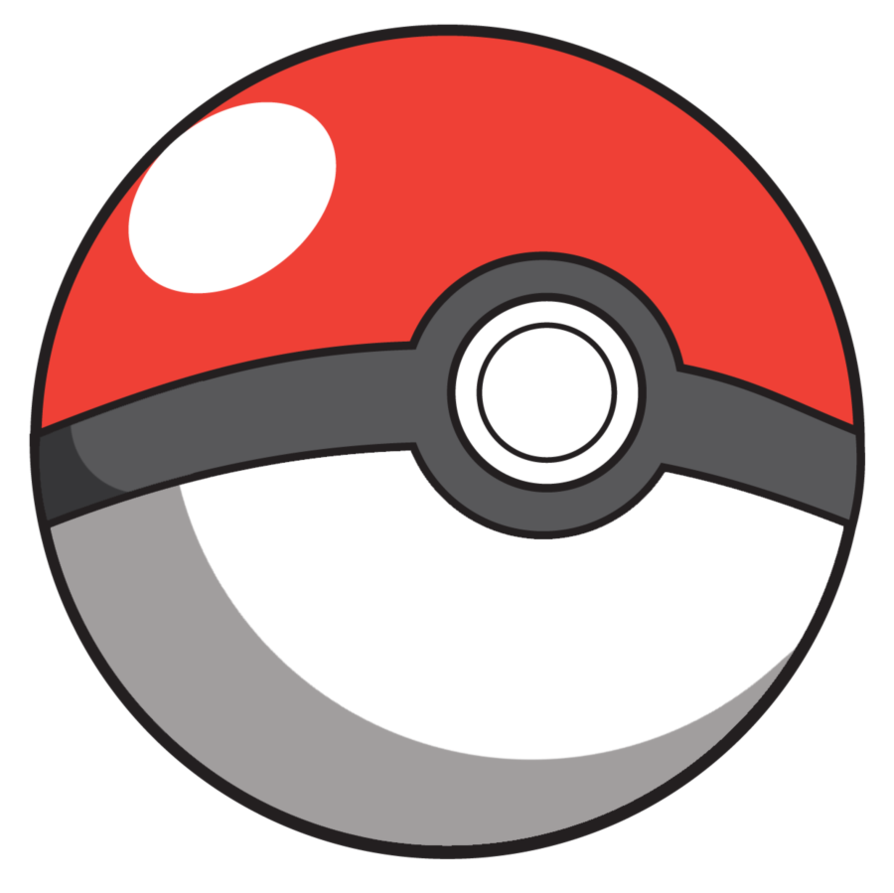
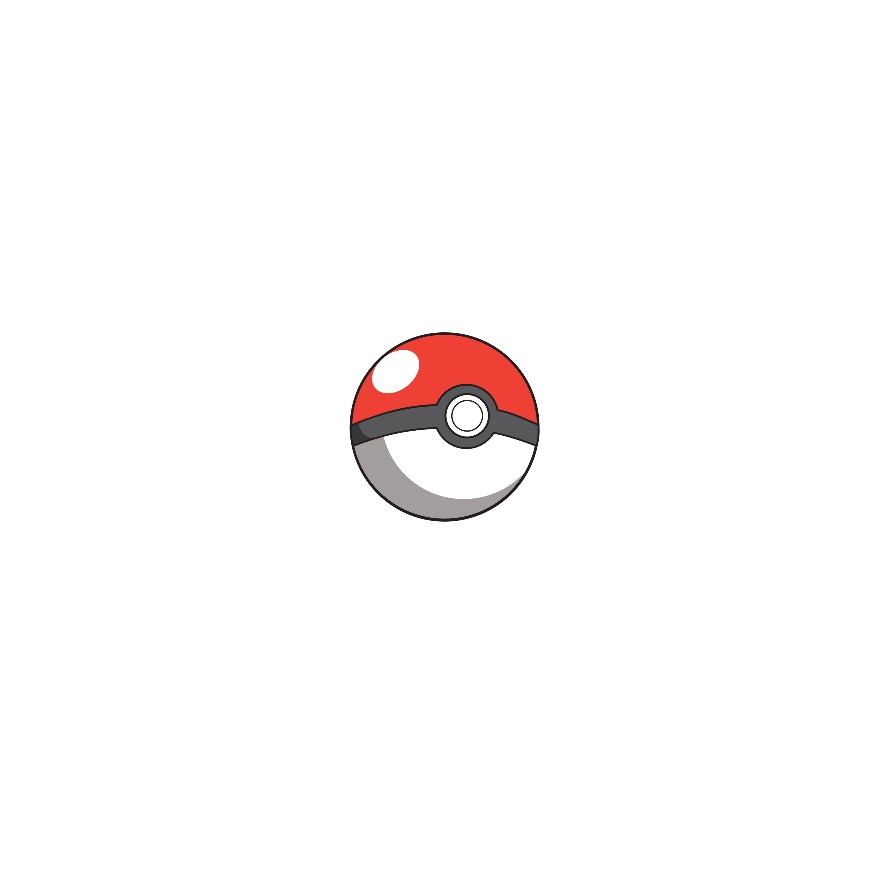
fixed skills and slides

diff --git a/index.html b/index.html
@@ -12,7 +12,7 @@
     <link rel="stylesheet" type="text/css" href="assets/css/skeleton-css/normalize.css">
     <link rel="stylesheet" type="text/css" href="assets/css/skeleton-css/skeleton.css">
         <!-- style.css -->
-    <link rel="stylesheet" type="text/css" href="assets/css/style.css">
+    <link rel="stylesheet" type="text/css"  href="assets/css/style.css">
         <!-- Font Awesome -->
     <link rel="stylesheet" href="https://use.fontawesome.com/releases/v5.2.0/css/all.css" 
                            integrity="sha384-hWVjflwFxL6sNzntih27bfxkr27PmbbK/iSvJ+a4+0owXq79v+lsFkW54bOGbiDQ" 
@@ -45,20 +45,22 @@
       <div class="row">
         <!-- columns should be there immediate child of a row -->
 
-        <div id="about-me" class="nine columns">
+        <div id="about-me" class="twelve columns">
           <h2>About Me</h2>
-          <p>I am a Full Stack Web Developer in the DFW Area. I specialize in React.js, but I also have proven capabilities
+          <p>
+              I am a Full Stack Web Developer in the DFW Area. I specialize in React.js, but I also have proven capabilities
             in Node.js, Express.js, MySQL, etc.
+            
             My passions are Jesus, coffee, and music. 
             To top that off, I have experience running successful SEO campaigns. 
             You can trust me to serve your all your website and online marketing needs.</p>
         </div>
-        <div id="headshot" class="three columns">
+         <!--<div id="headshot" class="three columns">
 
-          <img id="headshot-img" src="https://scontent-dfw5-1.xx.fbcdn.net/v/t1.0-9/26804758_1812625685436093_8192463049465365933_n.jpg?_nc_cat=110&oh=643743519ada9f96c02aa5402812fc26&oe=5C5FF7F8"  
-          width="100%" height="50%" alt="David Penberthy"/>
+            <img id="headshot-img" src="https://scontent-dfw5-1.xx.fbcdn.net/v/t1.0-9/26804758_1812625685436093_8192463049465365933_n.jpg?_nc_cat=110&oh=643743519ada9f96c02aa5402812fc26&oe=5C5FF7F8"  
+            width="50%" height="25%" alt="David Penberthy"/>
 
-        </div>
+        </div> -->
 
       </div>
       
@@ -90,56 +92,80 @@
         <!-- Portfolio Section -->
         <div id="portfolio" class="eight columns">
 
-          <h2 id="portfolio-header">Portfolio of Projects</h2>
+          <b><h2 id="portfolio-header">Portfolio of Projects</h2></b>
           
           <div class="container">
             <div class="slideshow-container">
-              <div class="row">
+             <div class="row">
                 <div class="twelve columns mySlides">
                   <figure class="project">
                     <a href="https://dpenberthy47.github.io/TriviaGame/"  target="_blank">
                       <img class="project-img" src="assets/img/liverpool.jpg" alt="Liverpool Trivia Quiz" />
                     </a>
-                    <h3>Liverpool FC Trivia Quiz</h3>
-                  <p>Place Description of the Project here.</p>
+                    <h3 class="portfolio-project-name">Liverpool FC Trivia Quiz</h3>
+                  <p>A timed, Liverpool FC themed trivia game built via JavaScript Classes and Prototypes.
+                    The user is treated to one of many gifs depending on how they scored. 
+                  </p>
                   <a class="github-code-link"href="https://github.com/dPenberthy47/TriviaGame">View Code Here</a>
                 </figure>
                 </div>
-              </div>
+               
 
 
-              <div class="row">
+              
                 <div class="twelve columns mySlides">
                   <figure class="project">
                     <a href="https://dpenberthy47.github.io/Unit-4-Game/"  target="_blank">
-                      <img class="project-img" src="assets/img/Pokemon.jpg" alt="Mini Pokemon RPG Game" />
+                      <img class="project-img" src="assets/img/Pokeball.jpg" alt="Mini Pokemon RPG Game" />
                     </a>
-                    <h3>Pokemon jQuery RPG</h3>
-                  <p>Place Description of the Project here.</p>
+                    <h3 class="portfolio-project-name">Pokemon jQuery RPG</h3>
+                  <p>jQuery catches all the DOM elements to create this simple Pokemon Battle RPG game.
+                    Choose between one of four fan favorites and become a Pokemon master!
+                  </p>
                   <a class="github-code-link" href="https://github.com/dPenberthy47/Unit-4-Game">View Code Here</a>
                 </figure>
                 </div>
-              </div>
+              
+
+             
+                  <div class="twelve columns mySlides">
+                    <figure class="project">
+                      <a href="https://fathomless-headland-39967.herokuapp.com/"  target="_blank">
+                        <img class="project-img" src="assets/img/library.jpg" alt="Library Portal App" />
+                      </a>
+                      <h3 class="portfolio-project-name">Library Portal</h3>
+                      <p>Library software is no longer clunky and confusing thanks to this Full-Stack JavaScript
+                        application. Use the MySQL database to create a login and check out your favorite books!
+                      </p>
+                      <a class="github-code-link" href="https://github.com/The-Librarians">View Code Here</a>
+                    </figure>
+                  </div>
+               </div>
 
 <!--
   ==============================          
             TEMPLATE
   ==============================
-              <div class="row">
-                <div class="twelve columns mySlides">
-                  <figure class="project">
-                    <a href="#"  target="_blank">
-                      <img class="project-img" src="#" alt="#" />
-                    </a>
-                    <h3>Project</h3>
-                  </figure>
-                  <p>Place Description of the Project here.</p>
-                  <a href="#">View Code Here</a>
+  
+                <div class="row"> 
+                  <div class="twelve columns mySlides">
+                    <figure class="project">
+                      <a href="#"  target="_blank">
+                        <img class="project-img" src="#" alt="#" />
+                      </a>
+                      <h3 class="portfolio-project-name">Library Portal</h3>
+                      <p>Place Description of the Project here.</p>
+                      <a class="github-code-link" href="#">View Code Here</a>
+                    </figure>
+                  </div>
                 </div>
-              </div>
+
+=============================================================================
+     Make sure to properly update the row tags when inserting a new slide
+=============================================================================
+
 -->
 
-                <!-- Redo this by yourself so you can actually learn how to do this -->
               <a class="prev" onclick="plusSlides(-1)">&#10094;</a>
               <a class="next" onclick="plusSlides(1)">&#10095;</a>
           </div>

diff --git a/assets/css/style.css b/assets/css/style.css
@@ -41,7 +41,8 @@ body {
 
 /* About Me */
 #about-me {
-    margin-left: 5%;
+    padding: 0 5%;
+    text-align: justify;
 }
 
 
@@ -71,6 +72,7 @@ body {
   
 .mySlides {
     display: none;
+    text-align: justify;
 }
 
 .github-code-link {
@@ -119,8 +121,8 @@ body {
 #list-of-skills {
     list-style-type: none;
     border: #670A0A 5px solid;
-    margin: 20px;
-    padding: 40px;
+    margin: 5%;
+    padding: 5%;
     background: whitesmoke;
     font-size: 20px;
     box-shadow: black 0 0 8px 8px
@@ -143,3 +145,20 @@ i:hover {
 
 }
 
+
+@media screen and (max-width: 720px) and  (min-width: 550px) {
+    .single-skill {
+        font-size: 0.7em;
+    }
+    #portfolio-header, .portfolio-project-name {
+        font-size: 2em;
+    }
+}
+
+@media screen and (max-width: 550) {
+    #list-of-skills {
+        
+        padding: 40px;
+    }
+    
+}
